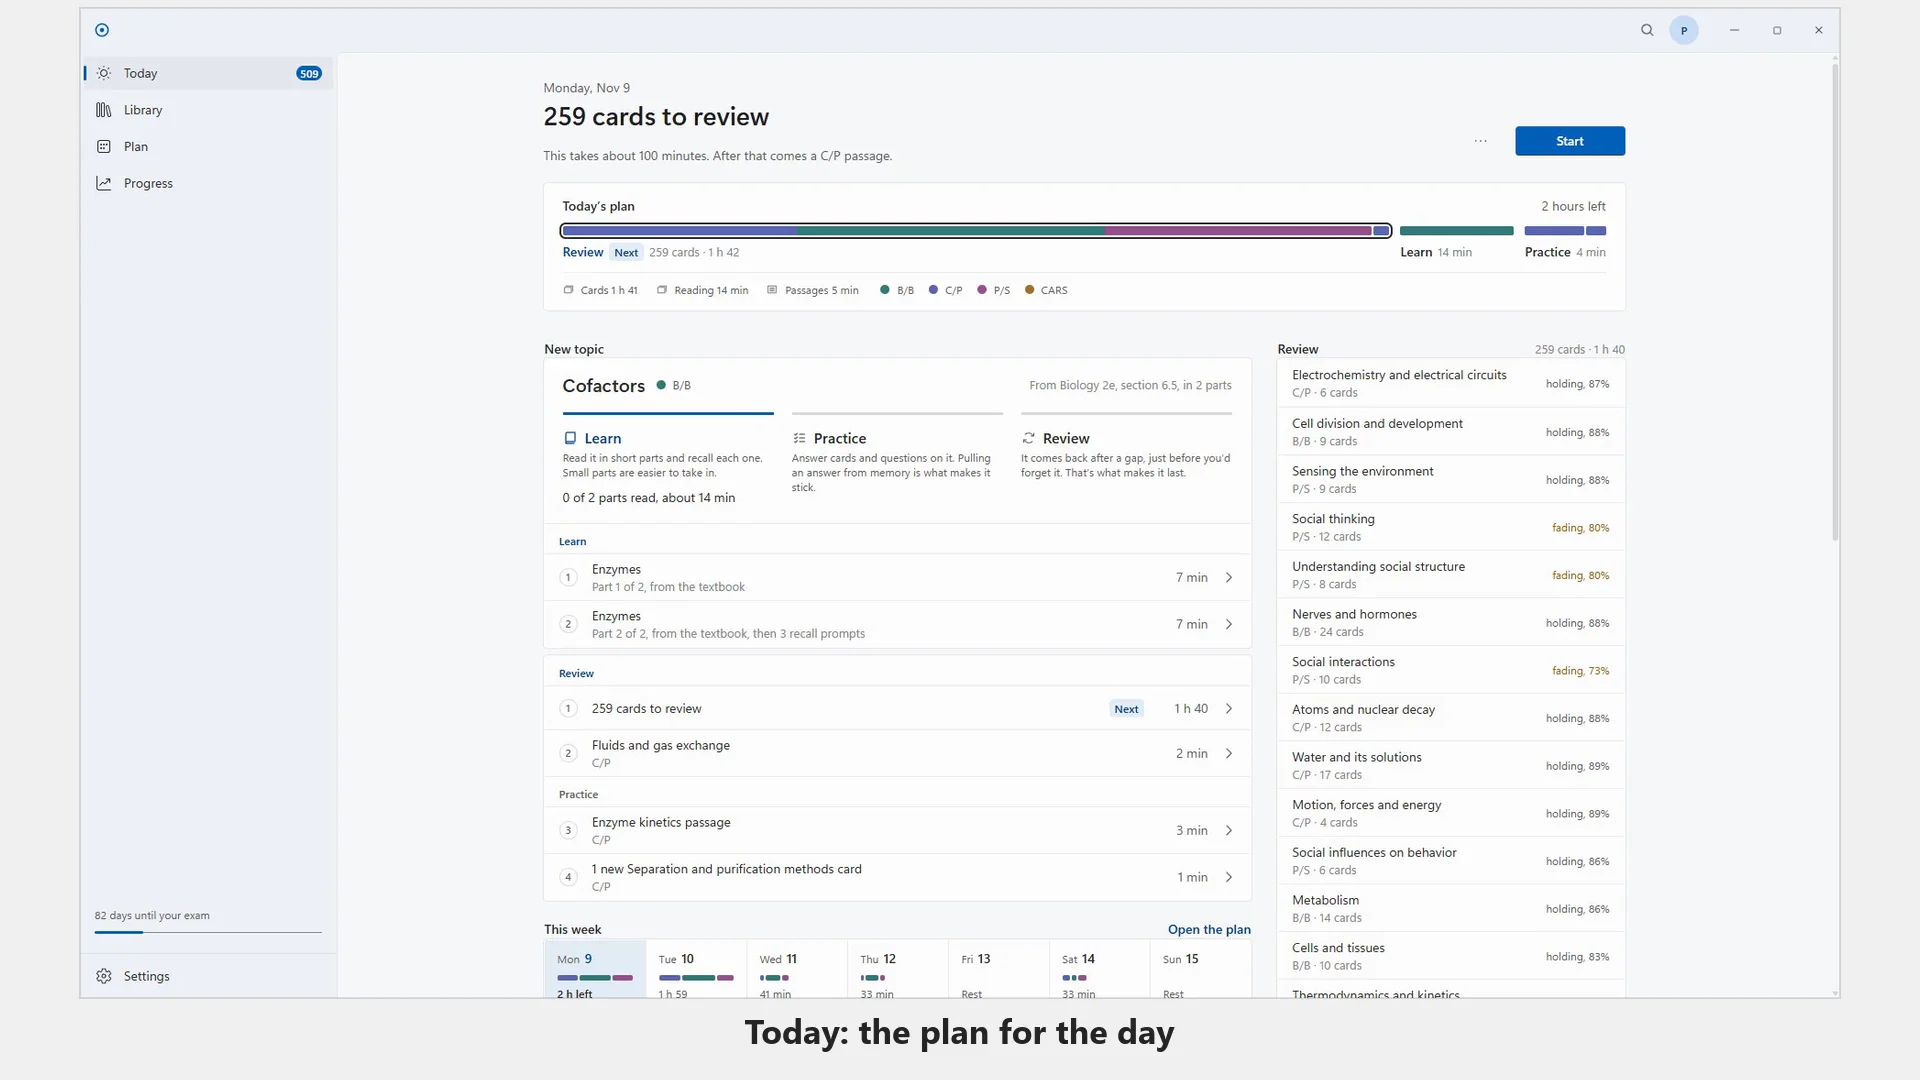
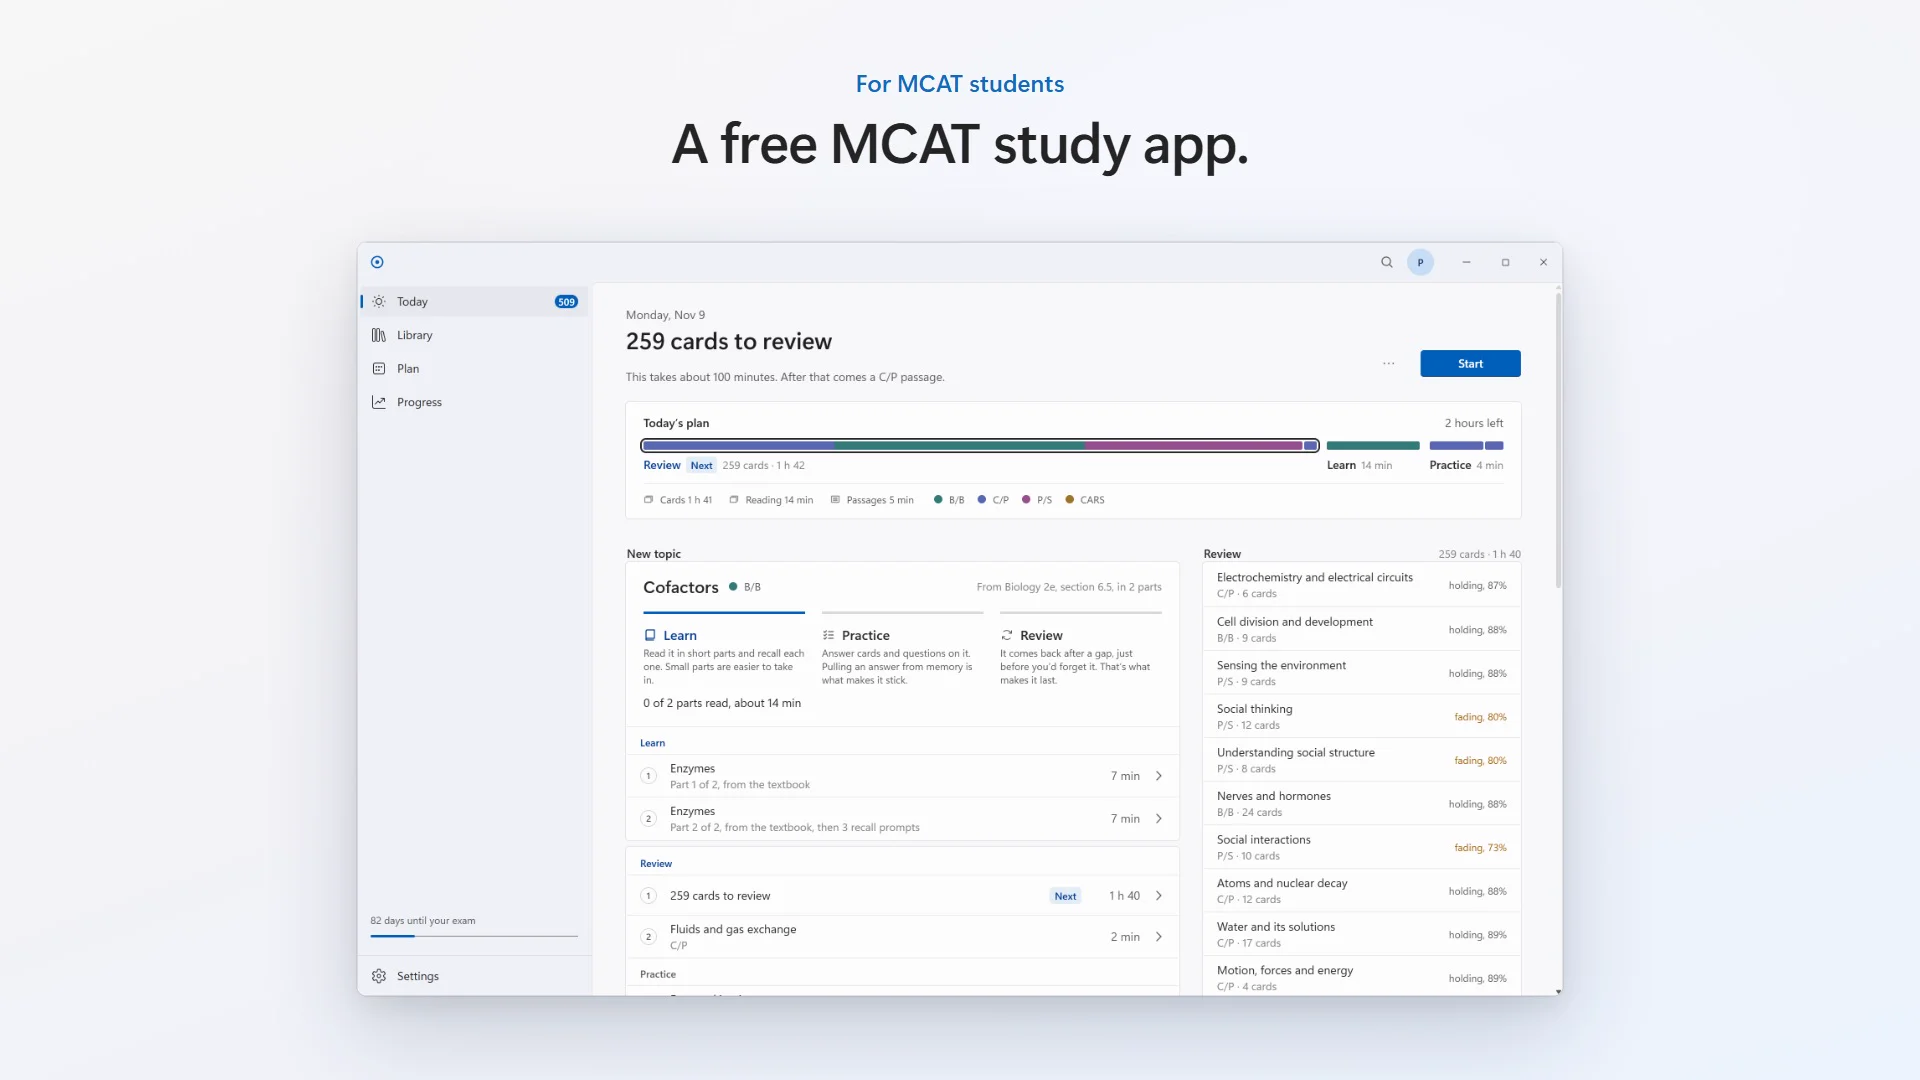
Add files via upload

diff --git a/index.html b/index.html
@@ -30,7 +30,7 @@
     <video controls preload="metadata" playsinline poster="poster.webp" width="1920" height="1080">
       <source src="demo.mp4" type="video/mp4">
     </video>
-    <figcaption>Demo, 1:27</figcaption>
+    <figcaption>Demo, 1:00</figcaption>
   </figure>
 
   <ul class="facts" aria-label="Key facts">
@@ -75,12 +75,28 @@
 </section>
 
 <section class="wrap block">
-  <h2>Key decisions</h2>
+  <h2>Product decisions</h2>
   <div class="grid two">
     <article class="card pad"><h3>Cut a feature that looked great</h3><p>We built a 3D world for the home screen. It was impressive, but it slowed the app and pulled focus from studying, so I removed it.</p></article>
     <article class="card pad"><h3>Every fact is sourced</h3><p>Every question and card must trace back to a textbook section. Anything that can't is discarded.</p></article>
     <article class="card pad"><h3>Nothing ships unchecked</h3><p>Every change is tested and approved by a separate reviewer before it is merged.</p></article>
     <article class="card pad"><h3>Privacy first</h3><p>No account and no cloud storage. AI features are optional and use the student's own key.</p></article>
+  </div>
+</section>
+
+<section class="wrap block">
+  <h2>Engineering decisions</h2>
+  <article class="card pad feature">
+    <h3>Local only, and encrypted</h3>
+    <p>Most apps today are cloud subscriptions that keep your data on their servers. I chose the opposite. Students' study records sit close to health and medical information, and that kind of data should not be sent over the internet without their say. Everything stays on the student's own computer, in an encrypted database (SQLCipher). There is no account and no cloud storage, and the app works fully offline. AI features are optional and use the student's own key, so nothing is shared unless they choose it.</p>
+  </article>
+  <div class="grid three after">
+    <article class="card pad"><h3>Migration to React</h3><p>The original app had grown to about 30,000 lines of plain JavaScript and was getting risky to change. I moved it to React, starting from a full feature inventory so nothing was lost, and old code was retired only after a script proved nothing still used it.</p></article>
+    <article class="card pad"><h3>Single owners</h3><p>Every rule lives in exactly one place. One module decides what is due for review, and the home screen, study sessions, flashcards and planner all read from it. When two screens work something out separately, they eventually disagree. One owner means one answer and one place to fix.</p></article>
+    <article class="card pad"><h3>Headless logic</h3><p>Scheduling, pacing and planning are pure functions with no screen, clock or storage inside them. They can be tested thoroughly on their own and behave the same wherever they are used.</p></article>
+    <article class="card pad"><h3>Clear state management</h3><p>State is split into four layers: shared logic, encrypted study data, settings and background services. Each screen's state has exactly one owner in the store (Zustand), so any bug traces back to one place.</p></article>
+    <article class="card pad"><h3>A plan that can't go stale</h3><p>A saved study plan is out of date the moment a student misses a day. So the plan is never stored. It is recalculated from the student's real progress every time, and every change they make is applied the same way.</p></article>
+    <article class="card pad"><h3>Locked-down desktop shell</h3><p>Even a local app should limit what can go wrong. The Electron shell runs sandboxed, the interface reaches the system only through an approved list of channels, and every response is checked at that boundary.</p></article>
   </div>
 </section>
 

diff --git a/site.css b/site.css
@@ -122,3 +122,5 @@ dialog .close { position: absolute; top: 8px; right: 8px; padding: 4px 12px; bor
   .shot.wide { grid-column: auto; }
 }
 @media (prefers-reduced-motion: reduce) { * { transition: none !important; } }
+.feature { border-left: 3px solid var(--brand); }
+.feature p { color: var(--fg2); max-width: 90ch; }
